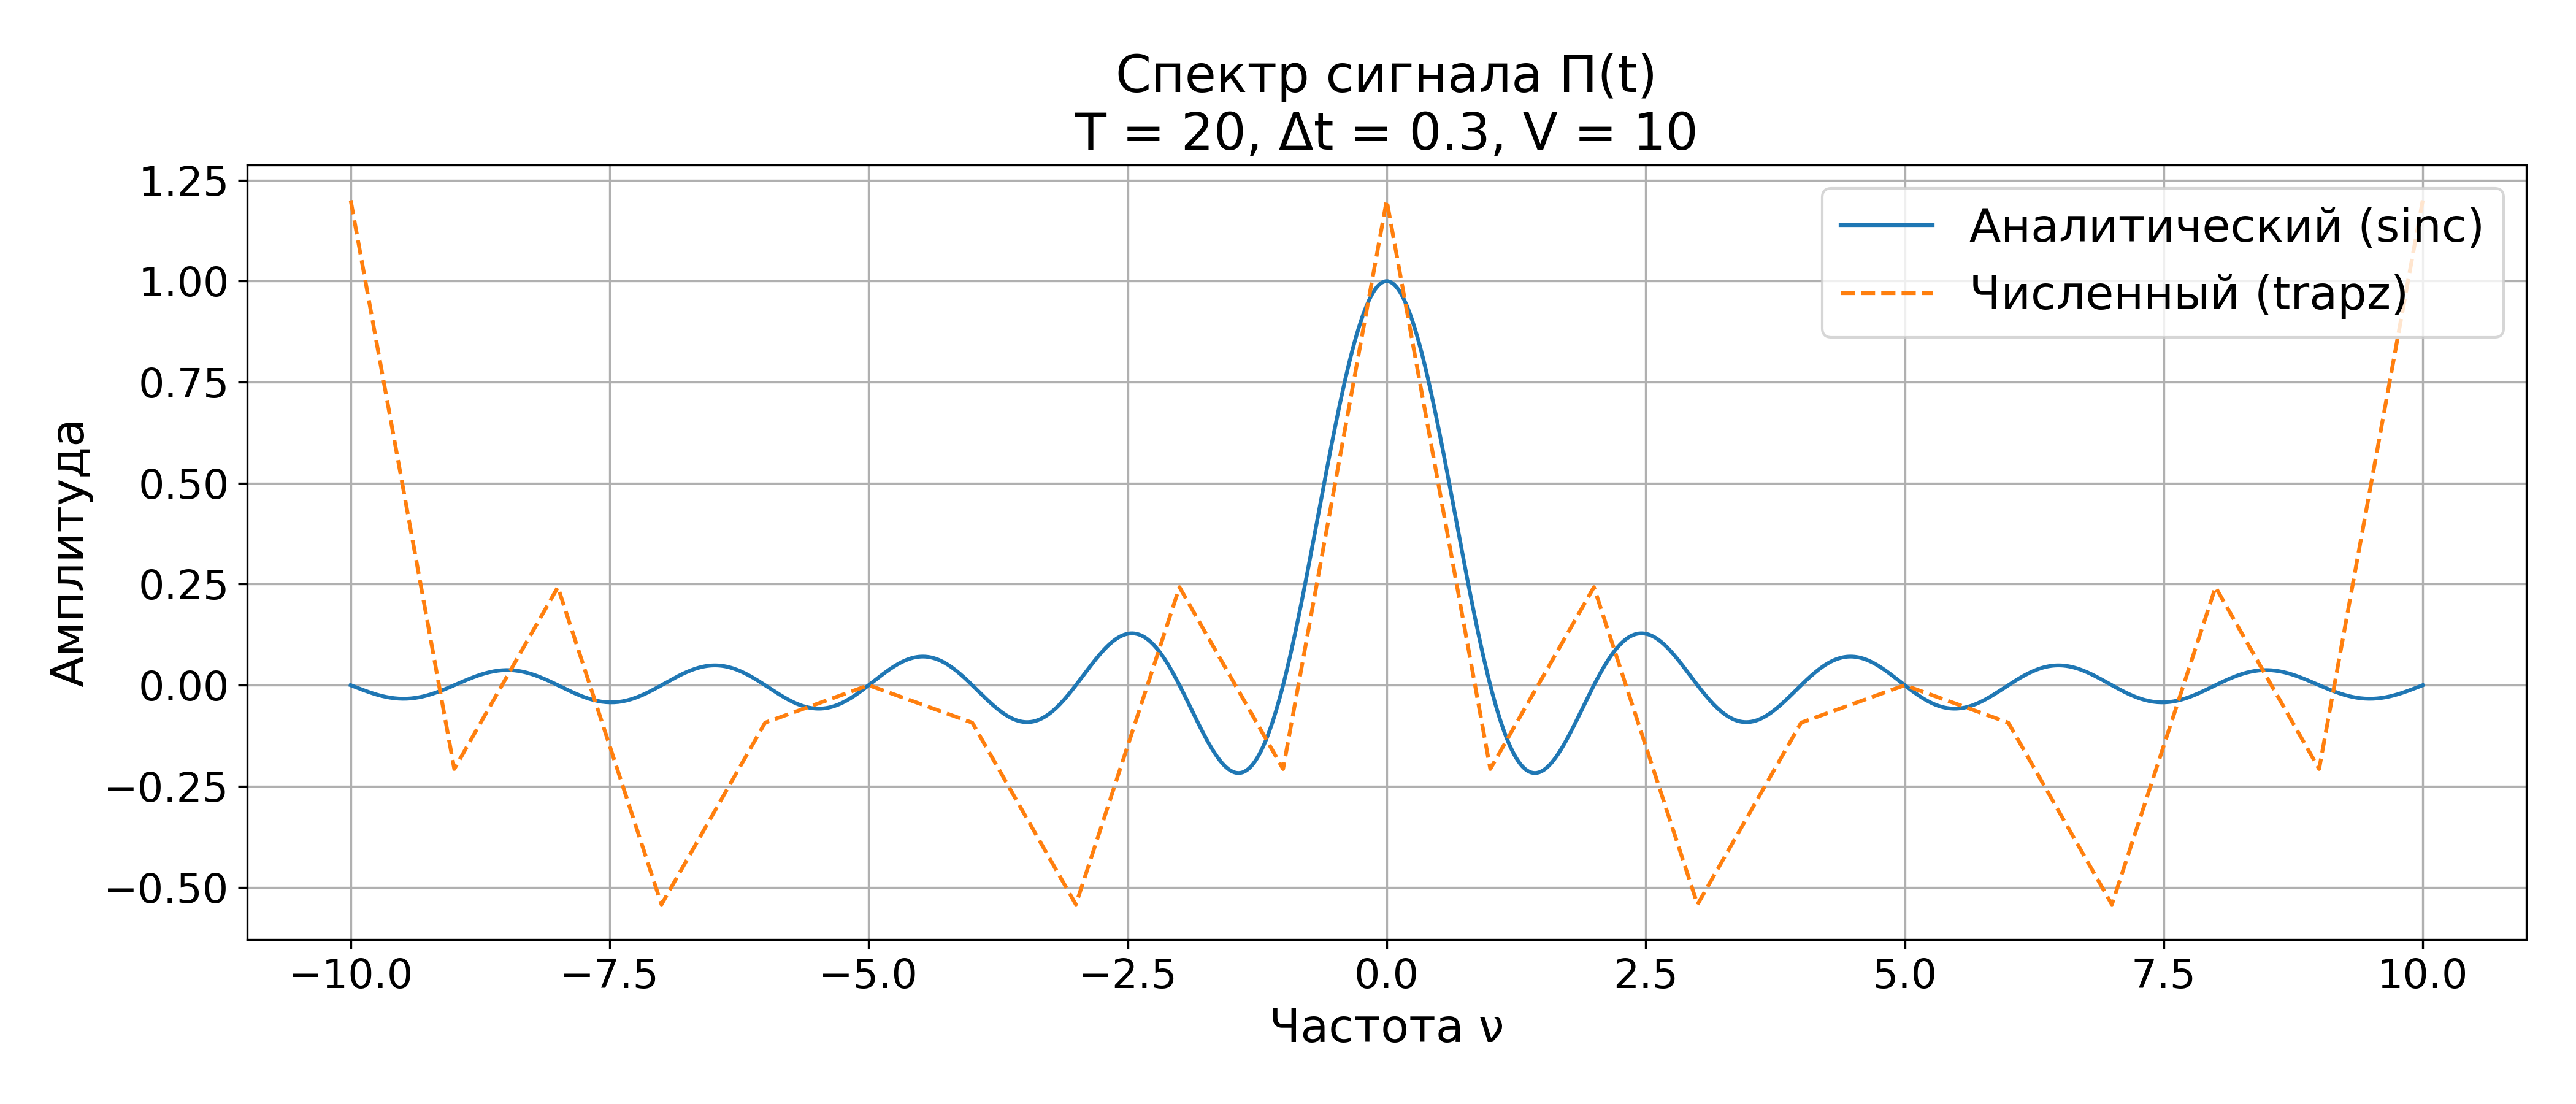
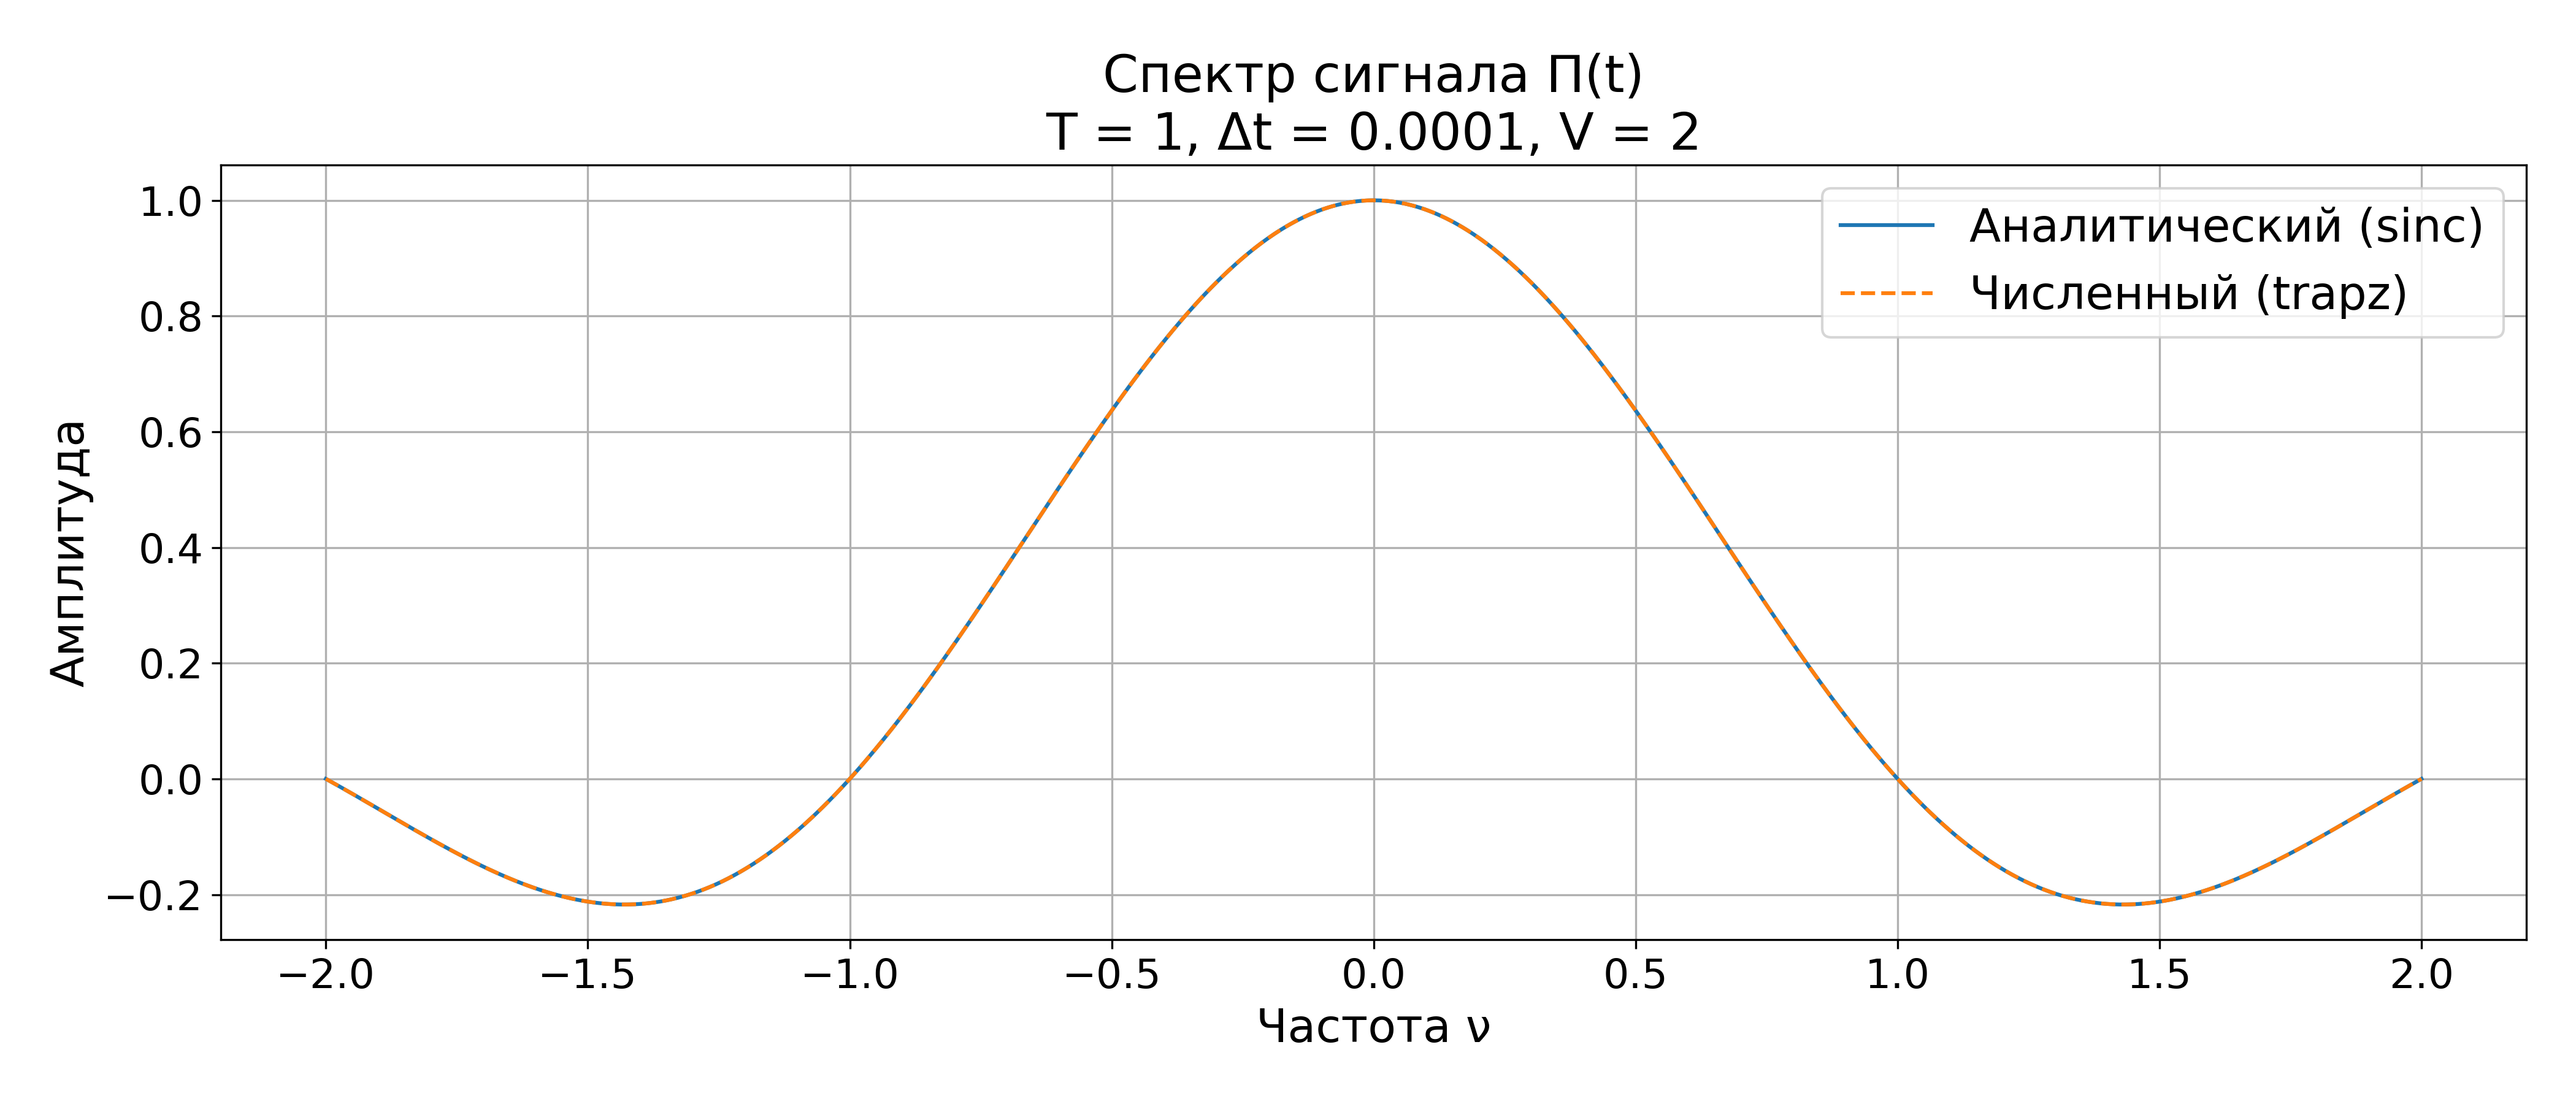
ИЛЬГИЗ СПАСАЙ2

diff --git a/task1/figs.py b/task1/figs.py
@@ -108,7 +108,7 @@ param_sets = [
 prefix = "1_3"
 
 for i, p in enumerate(param_sets):
-    
+    break
     if i in [0, 3,5, 12,14, 15,17,18,19,24,25,27,29,30,31,34]:
         continue  # Выбираем 6 наборов для графиков
     t_fine = np.linspace(-T, T, 5000)